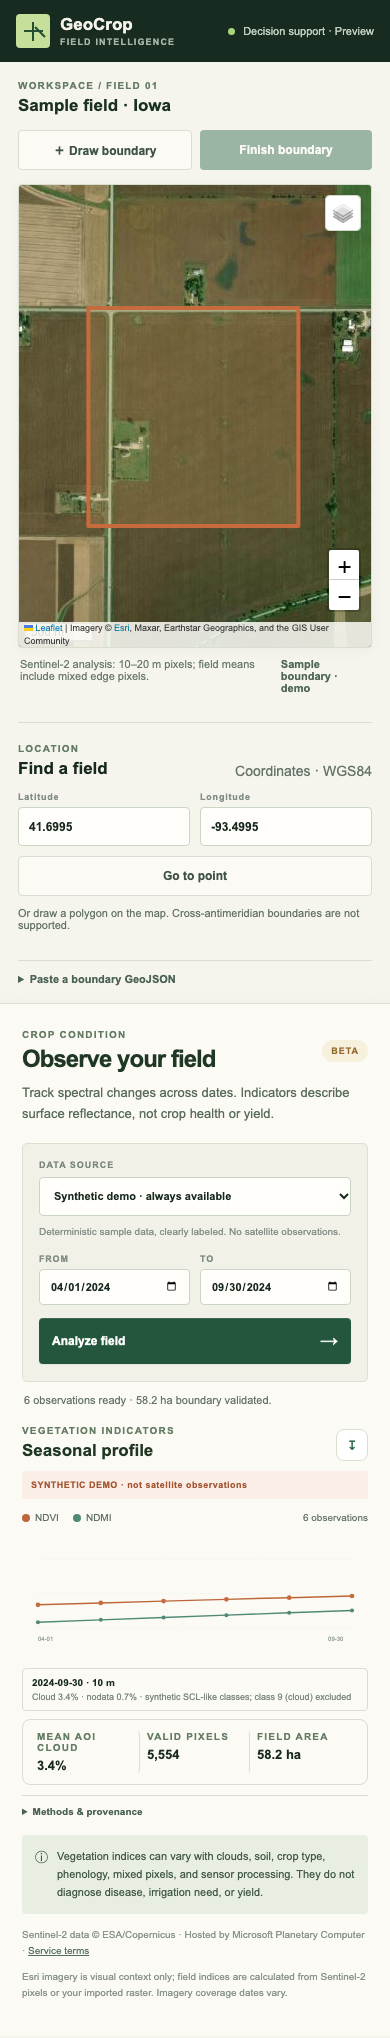
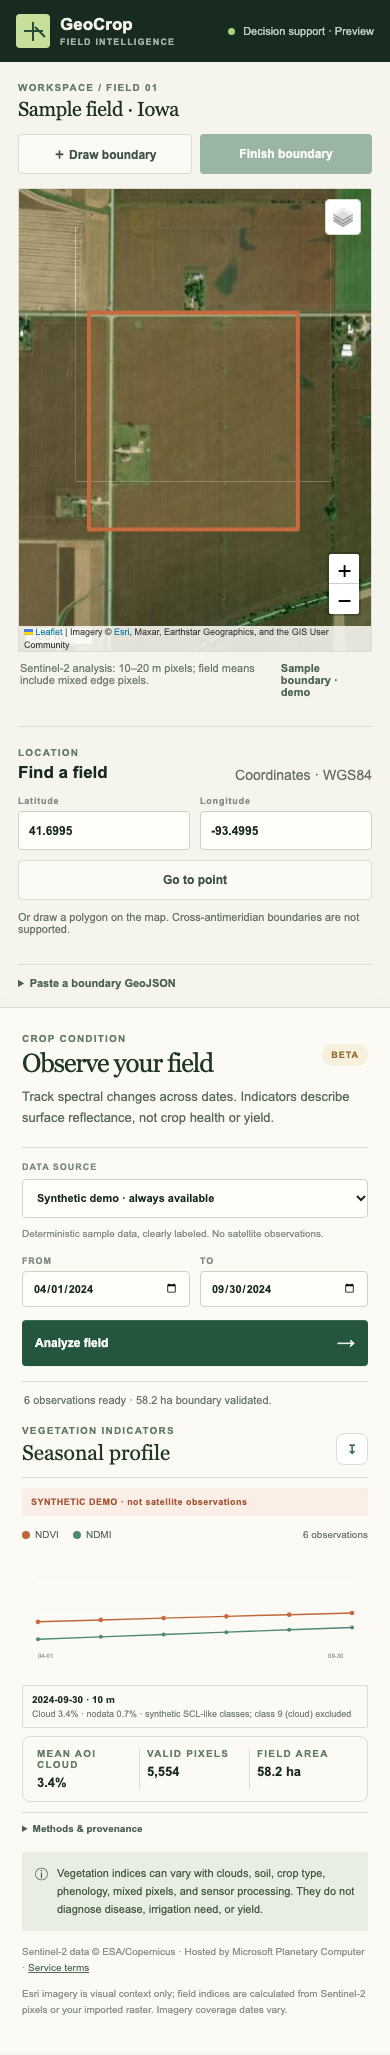
Refine GeoCrop field instrument interface

diff --git a/src/style.css b/src/style.css
@@ -701,3 +701,21 @@ body { background: #f5f4ed; font-size: 14px; }
 .leaflet-control-attribution { background: #fbfaf5dd !important; }
 @media (max-width: 950px) { .layout { grid-template-columns: minmax(0, 1fr) 340px; } .map-column { padding: 18px; } }
 @media (max-width: 700px) { .topbar { padding: 0 16px; } #map { min-height: 55vh; } .panel { background: #fbfaf5; } }
+
+/* Field-lab direction: keep the image expansive and let metadata read like an instrument log. */
+.layout { grid-template-columns: minmax(0, 1fr) minmax(330px, 360px); }
+.map-column { padding-top: 20px; }
+.map-label strong, .panel h1, .result-head h2 { font-family: Georgia, "Times New Roman", serif; font-weight: 500; }
+.map-label strong { font-size: 20px; letter-spacing: -.02em; }
+.panel { border-left: 1px solid #d2d8ca; }
+.panel h1 { font-size: 26px; line-height: 1.08; }
+.control-card { border: 0; border-top: 1px solid #d9ded0; border-bottom: 1px solid #d9ded0; border-radius: 0; background: transparent; padding: 14px 0; }
+.result-head { border-bottom: 1px solid #d9ded0; padding-bottom: 12px; }
+.result-head h2 { font-size: 21px; }
+.scene-row, .quality-grid > div, .limits { border-radius: 2px; }
+#map { border-radius: 2px; box-shadow: none; }
+.leaflet-control-layers { box-shadow: none !important; }
+@media (max-width: 700px) {
+  .layout { grid-template-columns: minmax(0, 1fr); }
+  .panel { border-left: 0; }
+}
